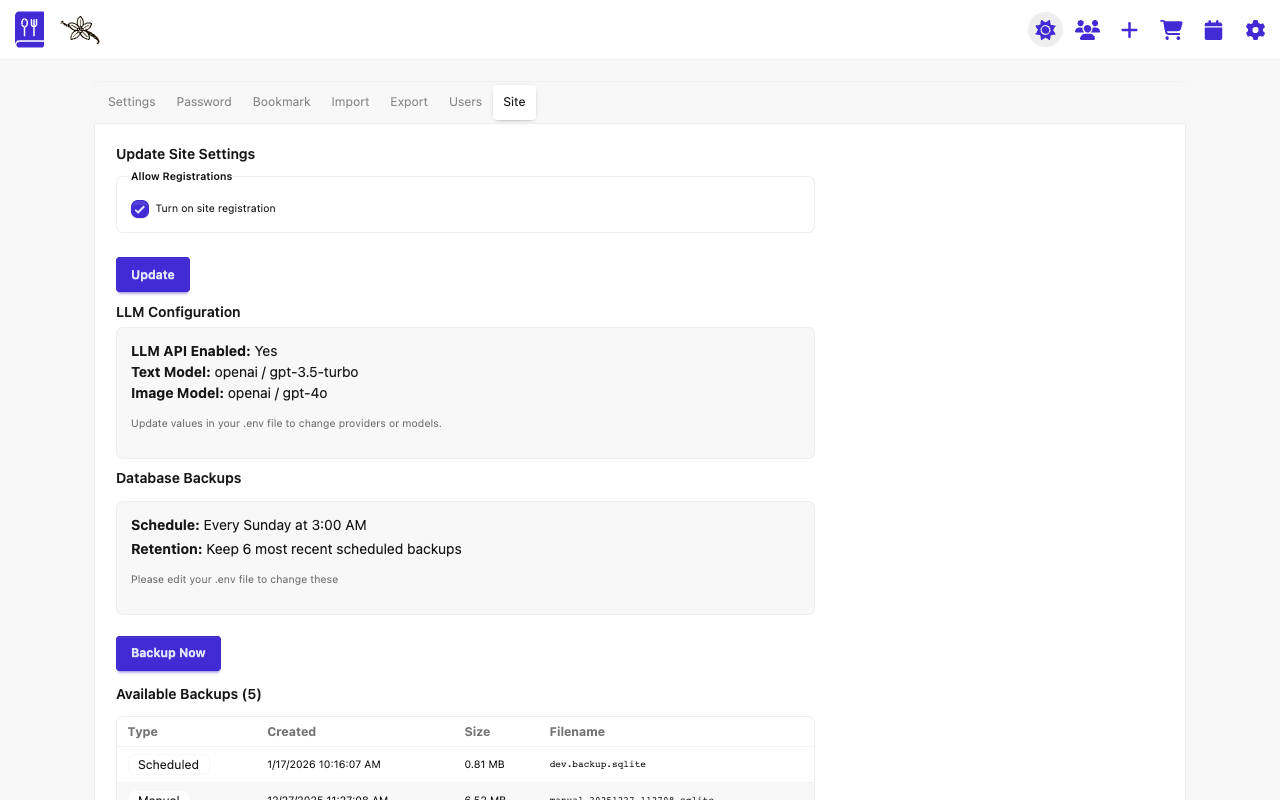
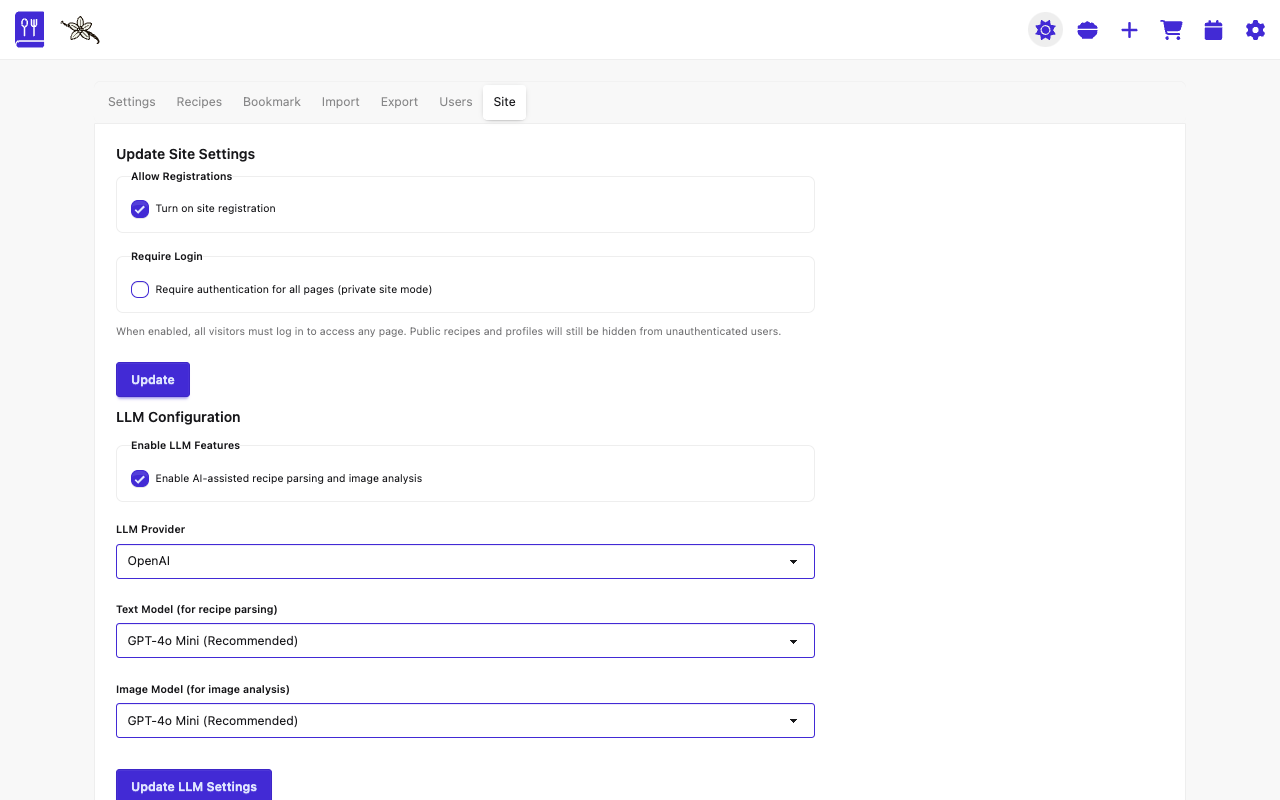
screenshots updating

diff --git a/docs/scripts/screenshots.py b/docs/scripts/screenshots.py
@@ -4,6 +4,12 @@ from pathlib import Path
 import os
 import re
 
+# TIPS
+#
+# admin user, password and id need to be set correctly or it'll silently fail
+# If the admin id isn't correct, it'll just redirect and you'll get the same view for all screenshots
+# Run this from root so the output files are in the correct dirs: `python docs/scripts/screenshots.py`
+
 ROOT_ENV = Path(__file__).resolve().parents[2] / ".env"
 # Load .env from repo root to avoid picking up a different working directory.
 load_dotenv(ROOT_ENV, override=True)
@@ -33,13 +39,14 @@ RECIPE_LIST = re.compile(fr"{re.escape(ORIGIN)}/user/.+/recipes")
 PAGES_TO_CAPTURE = [
     {"name": "login", "route": "/login"},
     {"name": "new", "route": "/recipe/new"},
+    {"name": "recipes", "route": "/recipes"},
     {"name": "shopping", "route": "/user/{ID}/shopping"},
     {"name": "calendar", "route": "/user/{ID}/calendar"},
-    {"name": "settings", "route": "/user/{ID}/options/settings"},
-    {"name": "password", "route": "/user/{ID}/options/password"},
-    {"name": "bookmark", "route": "/user/{ID}/options/bookmark"},
-    {"name": "import", "route": "/user/{ID}/options/import"},
-    {"name": "export", "route": "/user/{ID}/options/export"},
+    {"name": "options-settings", "route": "/user/{ID}/options/settings"},
+    {"name": "options-recipes", "route": "/user/{ID}/options/recipes"},
+    {"name": "options-bookmark", "route": "/user/{ID}/options/bookmark"},
+    {"name": "options-import", "route": "/user/{ID}/options/import"},
+    {"name": "options-export", "route": "/user/{ID}/options/export"},
     {"name": "admin-users", "route": "/user/{ID}/options/admin/users"},
     {"name": "admin-site", "route": "/user/{ID}/options/admin/site"},
 ]

diff --git a/docs/manual/usage.md b/docs/manual/usage.md
@@ -228,17 +228,33 @@ GITHUB_CLIENT_SECRET=
   - **Authorised JavaScript origins**: <https://my-vanilla-site.com>
   - **Authorised redirect URIs**: <https://my-vanilla-site.com/api/oauth/callback>
 
+## Public Recipes
+
+![Public Recipes](../images/screen-desktop-recipes-dracula.png)
+
+The public recipes page at `/recipes` shows all recipes that have been marked as public by their owners. This allows visitors to browse shared recipes without needing to log in (unless the site has "Require Login" enabled).
+
 ## Options
 
-![Settings](../images/screen-desktop-settings-dracula.png)
+![Settings](../images/screen-desktop-options-settings-dracula.png)
 
 I've tried to keep most of the under the hood stuff here.
 
 ### Settings
 
-#### Ingredients
+Account and privacy settings:
 
-See also [ingredients docs](./ingredients.md)
+- **Username** - View your username (read-only)
+- **Email** - Update your email address
+- **Change Password** - Update your password
+- **Profile public** - show/hide your profile in the _/users_ view
+- **Recipes public** - make your recipe public by default
+
+### Recipe Settings
+
+![Recipe Settings](../images/screen-desktop-options-recipes-dracula.png)
+
+Configure how ingredients are displayed. See also [ingredients docs](./ingredients.md)
 
 - **Teaspoons instead of grams** - use these instead of weight for smaller measures
 - **Display Cup Match** - set as default
@@ -254,30 +270,37 @@ Here's a demo of the language and **Display Original** setting working.
   Your browser does not support the video tag.
 </video>
 
-#### Privacy
+### Bookmark
 
-- **Profile public** - show/hide your profile in the _/users_ view
-- **Recipes public** - make your recipe public by default
+![Bookmark](../images/screen-desktop-options-bookmark-dracula.png)
 
-![Bookmark](../images/screen-desktop-bookmark-dracula.png)
+Grab your bookmarklet for saving recipes to the site.
 
-**Bookmark** - grab your bookmarklet for saving recipes to the site.
+### Import / Export
 
-![Import](../images/screen-desktop-import-dracula.png)
-![Export](../images/screen-desktop-export-dracula.png)
-![Upload](../images/screen-desktop-upload-dracula.png)
+![Import](../images/screen-desktop-options-import-dracula.png)
+![Export](../images/screen-desktop-options-export-dracula.png)
 
-**Import**, **Export**, **Upload** see the [Import Docs](import.md).
+See the [Import Docs](import.md) for details on importing and exporting recipes.
+
+### Users (Admin)
 
 ![Users](../images/screen-desktop-admin-users-dracula.png)
 
-**Users** - admin only. User management. Change passwords, add and remove users etc.
+Admin only. User management including:
+
+- Change passwords
+- Add and remove users
+- Manage admin privileges
+
+### Site (Admin)
 
 ![Site](../images/screen-desktop-admin-site-dracula.png)
 
-**Site** - admin only. Site-wide settings including:
+Admin only. Site-wide settings including:
 
 - **Registration** - Turn on/off new user registration
+- **Require Login** - Enable private site mode (all visitors must log in to access any page)
 - **LLM Configuration** - Enable AI features, choose provider and models
 - **Password Requirements** - View current password policy (configured via .env)
 - **Database Backups** - View backup schedule and create manual backups
